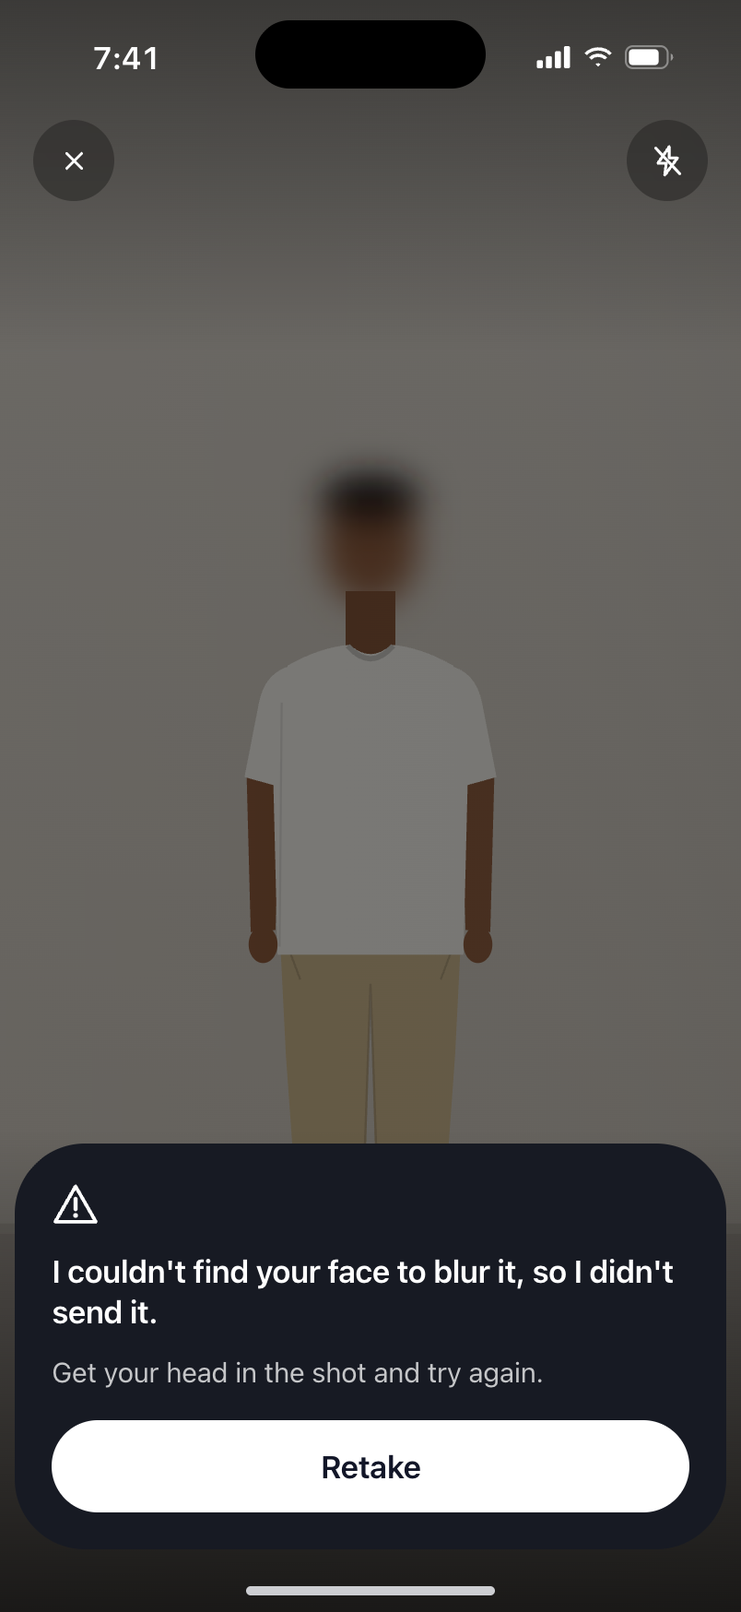
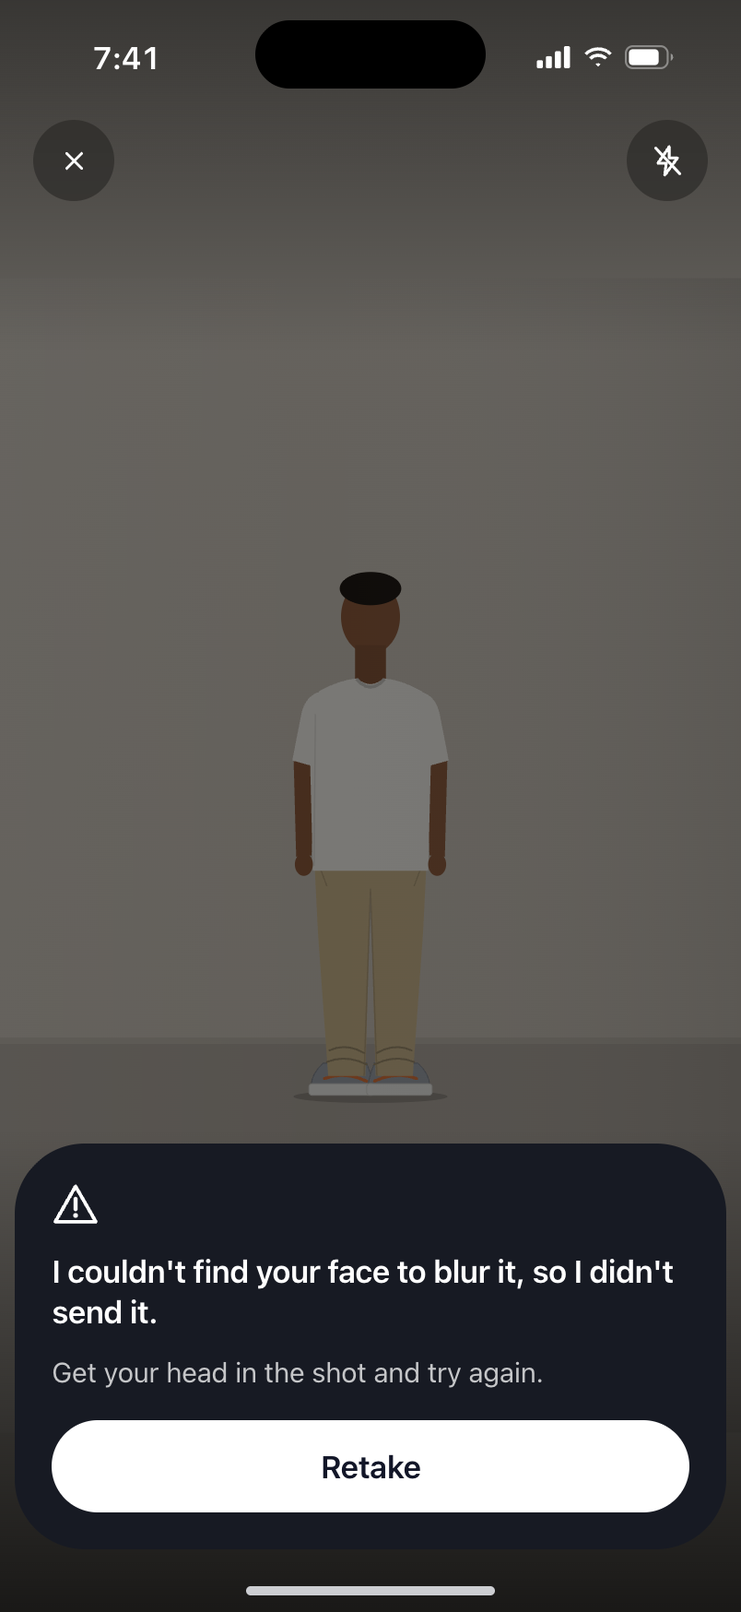
T62: F2.2 design approved by the founder (round 3, critic matches); plan.md and log #405–406

Changed region(s): [[0.3109, 0.278, 0.6841, 0.6178], [0.4042, 0.6487, 0.5908, 0.7105]]

diff --git a/tasks/T62/design.html b/tasks/T62/design.html
@@ -482,7 +482,7 @@ h1.board-title em{font-style:normal;font-stretch:72%;font-weight:500;color:var(-
         <div class="screen">
           <div class="content">
             <div class="nav"><div class="t">Stylist<small class="t62-sub">1 free check today</small></div></div>
-            <div class="thread" style="padding-top:12px">
+            <div class="thread end" style="padding-bottom:146px">
               <div>
                 <div class="t62-who">Kit</div>
                 <div class="t62-kit">I'm Kit, your stylist. Quick note: I'm an AI. I read clothes, never faces, and I can get things wrong. Tap "Not quite right?" when I do.</div>
@@ -493,7 +493,7 @@ h1.board-title em{font-style:normal;font-stretch:72%;font-weight:500;color:var(-
           <div class="t62-acc"><span class="cam"><svg class="ic s"><use href="#i-camera"/></svg></span><span class="field">Ask Kit…</span><span class="mic"><svg class="ic s" viewBox="0 0 24 24"><use href="#t62-mic"/></svg></span></div>
         </div>
       </div>
-      <figcaption><b>Largest text · the toast <small>PHONE 5</small></b><span>Phone 3 at AX5 (the toast's text 49 pt; the header and the bar capped at 2x). The toast grows upward over the thread and every word sits on its fill: at accessibility sizes it takes the 24 pt corner of the stacked toast instead of the capsule, even with no Undo. Kit's message and the bar are today's AX5 layout, unchanged.</span></figcaption>
+      <figcaption><b>Largest text · the toast <small>PHONE 5</small></b><span>Phone 3 at AX5 (the toast's text 49 pt; the header and the bar capped at 2x). The toast grows upward over the thread and every word sits on its fill: at accessibility sizes it takes the 24 pt corner of the stacked toast instead of the capsule, even with no Undo. The thread sits at its end, as Stylist scrolls it (Kit's long message ends just above the bar, mostly under the toast). Kit's message and the bar are today's AX5 layout, unchanged.</span></figcaption>
     </figure>
 
 
@@ -913,5 +913,15 @@ document.querySelectorAll(".phone.fixed .status").forEach(function(st){st.style.
 </script>
 <script>
 // T62: the drawn figures stand far from the phone: zoom the viewBox out so his whole figure, head included, sits inside the frame.
-document.querySelectorAll('[data-zoom="far"] svg').forEach(function(g){g.setAttribute('viewBox','-80 -300 360 780');g.setAttribute('preserveAspectRatio','xMidYMid slice')});
+document.querySelectorAll('[data-zoom="far"] svg').forEach(function(g){
+  // About a third of the screen tall, feet just above the panel: viewBox 578 x 1257 around the 417-unit figure.
+  g.setAttribute('viewBox','-189 -517 578 1257');g.setAttribute('preserveAspectRatio','xMidYMid slice');
+  // The room runs past the zoomed-out view: stretch the wall up and the floor down.
+  var r=g.querySelectorAll('rect');
+  if(r[0]){r[0].setAttribute('x','-2000');r[0].setAttribute('y','-2000');r[0].setAttribute('width','4000');r[0].setAttribute('height','2600')}
+  if(r[1]){r[1].setAttribute('x','-2000');r[1].setAttribute('width','4000');r[1].setAttribute('height','2000')}
+  if(r[2]){r[2].setAttribute('x','-2000');r[2].setAttribute('width','4000')}
+  // A plain, featureless head in the skin and hair tones: no blur (the frozen photo is shown as is).
+  g.querySelectorAll('g[filter]').forEach(function(h){h.removeAttribute('filter')});
+});
 </script>

diff --git a/tasks/T62/DESIGN.md b/tasks/T62/DESIGN.md
@@ -1,6 +1,6 @@
 # T62 · Design: Head not found (what he sees when nothing is sent)
 
-<!-- The coordinator adds the approval line here only after the founder's yes in chat. -->
+**Approved by the founder:** 2026-11-09 in chat (scope: F2.2 only; F2.3 and F3.3 are designed when T62 runs)
 
 **From:** `plan.md` → T62 · **Spec:** `specs.md` → F2.2, and "Failure and edge cases" → the "Head not found" row · **Frames:** `tasks/T62/design.html` (open with `preview_start` name `mockups`, then `http://127.0.0.1:8095/tasks/T62/design.html`) · **PNGs:** `tasks/T62/design/`
 
@@ -13,14 +13,14 @@ When the phone can't find his head to blur it, nothing leaves the phone, and Kit
 
 ## Where it lives
 - **Mainly the camera's after-shot panel** (02 S3, `RetakePanel`), inside the camera cover. The camera is always dark. The panel sits over his frozen photo. **How he gets there:** the shutter (Propped 3-2-1, or Mirror's shutter or volume button), or a pick from the library button. Next, the "Checking the photo…" pill shows while the quick check runs on the phone. If that check can't find his head (`fitIssue` → `cantFrame`), the panel slides up. That happens when his whole figure, top included, is inside the photo, but Vision finds no face, no head points and no two shoulders to place the blur on: he's small or far from the phone, turned away with his shoulders hidden, or too dim to read. A head cut off at the photo's top edge is a different case: its top is hidden down to just above his shoulders and the photo is sent (DECISIONS-LOG #304, `KittedPrep.swift` `topEdgeBand`), so it never shows this panel. **How he leaves:** Retake (back to the live camera), Choose another (the photo picker, for a library photo), or the X (closes the camera). No way out sends anything. Retake and Choose another delete the temporary photo (`discard()`); Close only closes the camera (`router.back()`), as today. The cover has no swipe-down.
-- **Rarely, a toast on Stylist** (02 G2, `ToastHost`). This happens when the quick check passed, or couldn't measure, but the full photo prep that runs after the cover closes still can't find his head (`photoProblem` / `couldNotFrame`). No photo bubble or card is posted. The thread shows what it showed before.
+- **Rarely, a toast on Stylist** (02 G2, `ToastHost`): a short message, not a thread card (founder, Nov 9). The camera panel is "the card" that F2.2 means, since that's where he almost always sees it. This happens when the quick check passed, or couldn't measure, but the full photo prep that runs after the cover closes still can't find his head (`photoProblem` / `couldNotFrame`). No photo bubble or card is posted. The thread shows what it showed before.
 - Around it: the camera's top bar (Close, and the flash toggle in Propped or the timer in Mirror) stays visible above the panel. The mode switch, library button, shutter and flip sit under the panel and are covered by it. On Stylist: the header, the thread, the "Ask Kit…" bar and the tab bar.
 
 ## States
 In the order he meets them. Before any of them, the existing "Checking the photo…" pill shows in the camera's top bar. It is unchanged and not drawn.
 
 ### Head not found · a photo he took · when: the quick check after the shutter finds his figure but no face, head points or shoulders (far, turned away or dim) · phone 1 · `design/01-light.png`, `design/01-dark.png`
-The frozen photo in the frames is a drawn, faceless figure standing in for his photo: whole figure inside the frame, top included, far from the phone in a dim room. On his phone it is his own photo, shown only to him; nothing of it leaves the phone. *Not this panel:* a photo with his head cut off at the top edge is hidden and sent (#304).
+The frozen photo in the frames is a drawn figure standing in for his photo. He's about a third of the screen tall, far from the phone in a dim room, with his whole figure inside the frame, top included. His head is a plain, featureless shape in skin and hair tones, with no blur: the frozen photo is shown as is (`reviewUri`), and nothing on it was blurred. On his phone it is his own photo, shown only to him, and nothing of it leaves the phone. *Not this panel:* a photo with his head cut off at the top edge is hidden and sent (#304).
 
 Top to bottom, in VoiceOver's reading order:
 - Close · `IconButton` variant glass, diameter 44, glyph `close` · no visible words · color `fixed.white` on the glass · top bar at safe-area top + 3, side inset 18 · VoiceOver: "Close camera" (`en.ts` `cam.a11y.close`) · tap: closes the camera (`router.back()`, as today). Nothing is sent.
@@ -30,10 +30,11 @@ Top to bottom, in VoiceOver's reading order:
   - Title · `KText` variant `headline` (17/22, 600) · `fixed.white` · "I couldn't find your face to blur it, so I didn't send it." (source: spec, the first sentence of the "Head not found" line) · with the body, one VoiceOver element (see below).
   - Body · `KText` variant `subheadline` (15/20) · `fixed.textDim` (white 75%) · "Get your head in the shot and try again." (source: spec, the line's second sentence).
   - **Title and body are one VoiceOver element** with the header trait, label "I couldn't find your face to blur it, so I didn't send it. Get your head in the shot and try again." (title, a space, body).
-  - **No** "This one doesn't count." under it: the line already says "I didn't send it" (open question 1). **No** "Use anyway": a photo whose face can't be hidden is never sent (ruling 10, `allowUse: false`).
+  - **No** "This one doesn't count." under it (founder, Nov 9): the line already says "I didn't send it". **No** "Use anyway": a photo whose face can't be hidden is never sent (ruling 10, `allowUse: false`).
   - Retake · `PanelButton` (inside `RetakePanel`), min height 50 (`size.buttonLarge`), radius 25, fill `fixed.white`, text `fixed.indigo`, variant `headline`, `CONTROL_TEXT_MAX_SCALE` · "Retake" (`en.ts` `cam.retake.retake`) · margin top 4 (`space.xs`), full width · VoiceOver: "Retake", button · tap: deletes the temporary photo, closes the panel, back to the live camera (`discard()`). Nothing is sent or counted. VoiceOver focus goes back to the shutter ("Take photo").
 - **Where VoiceOver focus goes.** When the panel appears, focus moves to the panel's text element (title + body, header trait), so VoiceOver reads both sentences once. There is no separate announcement, so the line isn't read twice and isn't cut off by a focus jump. On Retake, focus goes back to the shutter. On Choose another (phone 2), the photo picker takes focus. On Close, focus is wherever the screen under the camera puts it, as today. *Change from today:* `RetakePanel` calls `announceForAccessibility(title)` and doesn't move focus. With VoiceOver on, focus is still on the shutter or library button he double-tapped, which this design hides (next point).
 - **While the panel shows, the controls it covers** (mode switch, library button, shutter, flip) **are hidden from VoiceOver**, so swiping from the panel's text goes on to Retake, and back to the flash toggle and Close. *Change from today:* they stay in the tree under the panel.
+- **Spoken in Propped (founder, Nov 9).** When the panel appears after a shutter photo in Propped mode, Kit says the line out loud once, title then body ("I couldn't find your face to blur it, so I didn't send it. Get your head in the shot and try again."). It uses the tips' voice (`Speech.speak`, rate 1.0), and the photo is never read aloud. It's not spoken in Mirror mode or for a library photo (he's holding the phone), and not while VoiceOver is on, because VoiceOver already reads the panel when focus moves and two voices would talk over each other. Retake, Close and Choose another stop it (`Speech.stop()`). *Change from today:* the panel is silent.
 - **Motion and haptics:** the existing ones, both meaningful. A warning haptic (`notificationAsync(Warning)`) once, when the panel appears. The panel slides up (`FadeInDown` 220 ms). With Reduce Motion it fades in (150 ms), with no slide. On Retake it slides down (160 ms), or fades out (120 ms) with Reduce Motion.
 - **Dark:** none. The camera uses the fixed dark set in both appearances, so the light and dark PNGs are the same.
 - **Largest text:** phone 4. The title wraps to 4 lines at 53 pt and the body to 3 lines at 49 pt. The button's text is capped at 2× (34 pt). The panel grows upward from the bottom and every word shows. Its cap is the camera's top bar: top ≥ safe-area top + 3 + 44 + 8. So Close stays reachable, and the words would scroll inside the panel above a pinned Retake if they ever needed more room. With these words at AX5 the panel is about 600 pt tall against about 720 pt of room, so nothing scrolls. *Change from today:* `RetakePanel` has no height cap.
@@ -41,6 +42,7 @@ Top to bottom, in VoiceOver's reading order:
 ### Head not found · a photo from his library · when: the same check, on a photo he picked with the library button · phone 2 · `design/02-light.png`, `design/02-dark.png`
 Same as phone 1, except the button:
 - Choose another · `PanelButton` with the `photo` glyph (small, `fixed.indigo`), gap 8 · "Choose another" (`en.ts` `cam.retake.chooseAnother`) · VoiceOver: "Choose another", button · tap: deletes the temporary photo, closes the panel and opens the photo picker (`discard()` then `pickFromLibrary()`), unchanged. The picker takes VoiceOver focus.
+- **Spoken:** no. A library pick means he's holding the phone.
 - **Motion and haptics, Dark:** as phone 1.
 - **Largest text:** as phone 4. "Choose another" fits on one line at 34 pt beside its glyph. If it ever didn't, it wraps (`flexShrink: 1`) and is never cut.
 
@@ -59,7 +61,7 @@ Top to bottom, in VoiceOver's reading order. Everything but the toast is today's
 The same elements, words and order as phone 1, at AX5 (headline 53/64, subheadline 49/59, the button's text 34/44 under `CONTROL_TEXT_MAX_SCALE` 2). Its reflow is described under phone 1.
 
 ### Largest text · phone 3 at AX5 · phone 5 · `design/05-light.png`, `design/05-dark.png`
-The same elements, words and order as phone 3, at AX5: the toast's `subheadline` 49/59 with radius 24; Kit's message `chatText` 53/64 (it runs under the toast and the bar, as the thread does today); the header ("Stylist" 34, "1 free check today" 24) and the "Ask Kit…" bar (34) capped at 2× (`CONTROL_TEXT_MAX_SCALE`); the tab bar as the system draws it. Its reflow is described under phone 3.
+The same elements, words and order as phone 3, at AX5: the toast's `subheadline` 49/59 with radius 24; Kit's message `chatText` 53/64 (the thread sits at its end, as `StylistScreen` scrolls it: the message's last lines end just above the bar, mostly under the toast, with "Kit" and its first lines scrolled off the top); the header ("Stylist" 34, "1 free check today" 24) and the "Ask Kit…" bar (34) capped at 2× (`CONTROL_TEXT_MAX_SCALE`); the tab bar as the system draws it. Its reflow is described under phone 3.
 
 ### States that don't apply
 - **First time:** the same panel. Consent is already agreed before the camera opens, and his first-ever check behaves the same.
@@ -85,20 +87,22 @@ Every string he reads in this task.
 ## New parts
 None. Changes to existing parts, used by these states:
 - `RetakePanel`: the title and body become one VoiceOver element with the header trait, and VoiceOver focus moves to it when the panel appears. This replaces `announceForAccessibility(title)`, so the line is read once, in full. It also gets a height cap at the camera's top bar, with the words scrolling inside above the pinned buttons. The other retake reasons get both changes for free, and they are harmless there.
-- `CameraScreen`: while the panel shows, the controls under it are hidden from VoiceOver (`accessibilityElementsHidden` / `importantForAccessibility="no-hide-descendants"` on the bottom controls). On Retake, VoiceOver focus goes back to the shutter.
+- `CameraScreen`: while the panel shows, the controls under it are hidden from VoiceOver (`accessibilityElementsHidden` / `importantForAccessibility="no-hide-descendants"` on the bottom controls). On Retake, VoiceOver focus goes back to the shutter. It also speaks this panel's line once in Propped mode after a shutter photo, with VoiceOver off (founder, Nov 9).
+- `ScanCameraScreen`: it shares `RetakePanel`, so the focus move reaches its panels too. While a panel shows there, the controls under it are hidden from VoiceOver the same way, so swiping from the panel's text never reaches a covered control. The scan's words and buttons are unchanged.
 - `ToastHost`: at accessibility text sizes every toast uses radius 24 (the stacked toast's), with or without Undo, so a tall toast keeps all its text on its fill. Today only a toast with Undo does.
 
 ## Checked by the designer
 - **HIG:** checked against Accessibility (VoiceOver focus moves to the new content and back, VoiceOver order, Dynamic Type to AX5, Reduce Motion: pass with the changes above), Feedback (one warning haptic and a plain statement of what happened and what to do: pass) and Modality (the camera cover keeps a visible Close at every text size: pass). Toasts aren't a native iOS pattern, but they're the app's existing G2 pattern for "nothing happened" (Jakob's Law over novelty).
 - **§C14:** tab bar for top-level navigation only: n/a (camera cover) / unchanged (phone 3) · never a tab as an action: pass · settings behind a gear: n/a · 44 pt targets: pass (Close 44, Retake and Choose another 50 tall at full width) · 4.5:1 text: pass. Title white on #171A23 is about 17:1. Body white 75% on #171A23 is 10.17:1. Retake #121628 on white is 17.9:1. The toast's `ink` on `surface` is about 17:1 (light), and on `surface2` about 13:1 (dark) · Dynamic Type at the largest sizes: pass (phones 4 and 5) · feedback within ~0.1 s: pass (the "Checking the photo…" pill at once, then the haptic with the panel) · a clear X on every camera: pass · familiar patterns: pass (the same panel as every other retake reason) · progressive disclosure, notifications, accounts: n/a · privacy in plain words: pass. The line says what wasn't sent and why.
 - **Design system:** only 03 / `tokens.ts` tokens and existing components: `RetakePanel`, `PanelButton`, `IconButton`, `Icon`, `KText`, `ToastHost`, `StylistBar`, `StylistMessage`, NativeTabs. Fixed dark set on the camera (03 §2.3, §9). No new colors or type roles.
-- **Hard lines:** no face or body. The camera frames use a drawn, faceless figure in place of his photo (no face drawn); phone 3 and 5 show no photo (03 §8). No emoji, ranks or streaks. Copper appears only as the active Stylist tab, which 03 §1 allows. The frames' colors come from `tokens.ts` (light and dark), not the old mockup values. No score is shown, so copper marks nothing else. Nothing is said about his body: the words are about the photo ("your head in the shot"), not about him.
+- **Hard lines:** no face or body. The camera frames use a drawn figure in place of his photo, with a plain, featureless head and no face drawn. Phones 3 and 5 show no photo (03 §8). No emoji, ranks or streaks. Copper appears only as the active Stylist tab, which 03 §1 allows. No score is shown, so copper marks nothing else. Nothing is said about his body: the words are about the photo ("your head in the shot"), not about him. The frames' colors come from `tokens.ts` (light and dark), not the old mockup values.
 - **Not checked:** the web preview (`kitted-web`) wasn't opened. The Mac had about 100 MB of memory free, so I didn't start Metro. Today's chrome is taken from the code (`CameraScreen.tsx`, `RetakePanel.tsx`, `ToastHost.tsx`, `StylistBar.tsx`, `HeaderTitle.tsx`). The critic or verifier can compare against demo screen 45 (`/camera?review=noPerson`, the sibling reason) and `/camera?review=cantFrame` (`simIssue` already accepts it). The library variant (phone 2) has no demo route: in the Simulator the review source is always the camera.
 
 ## Open questions for the founder
-1. **Keep "This one doesn't count." under the line, like the other retake panels?** · recommended: **drop it here.** "I didn't send it" already says nothing happened, and a third sentence makes the panel 4 lines at normal size and much taller at large text. · other: keep it as the body's second sentence ("Get your head in the shot and try again. This one doesn't count."), which matches the sibling panels and spells out that his free check is safe.
-2. **Should Kit say the line out loud in Propped mode?** · recommended: **yes, once, in the same voice as the camera tips.** In Propped he's 2–3 m from a phone propped against something, and 17 pt words are hard to read from there. The camera already speaks its tips in Propped. · other: leave it silent (today). Either way it's new behaviour beyond F2.2, so it needs your yes.
-3. **The rare after-the-camera case: a toast, or a card in the thread?** The spec says "the card says why". · recommended: **the toast (phone 3), with the camera panel counted as "the card"**, since that's where he almost always sees it. Nothing was posted, so there's no photo bubble to hang a card on, and a card would leave a permanent "nothing happened" entry in his chat. · other: post a "Not sent" card with Retake (like the unused 02 S19e). It stays readable after 5 s, but it needs a photo bubble for a check that never ran.
+None open. All three were answered on Nov 9 in chat and are written into the design above:
+- "This one doesn't count." is left off: "Leave it off (Recommended)".
+- The line is spoken in Propped: "Yes, say it (Recommended)".
+- The after-camera case is a toast: "Short message (Recommended)". It stays on screen 5 s (`TOAST_MS`). The critic's 8 s suggestion is still only a suggestion.
 
 ## Out of scope
 - **F2.3** ("Taking longer…" at 9 s, giving up at 14 s with a retry, a failed check never uses a check) and **F3.3** ("I did make the change" and "Scored from what you told me."): the other two-thirds of T62, still to design when T62 runs.
@@ -166,6 +170,24 @@ Re-read this file (Changes, Round 2), all 10 PNGs, and `design.html` (its `:root
 
 **Not verified:** the same two as Round 1 (the gap between the cover closing and the phone 3 toast; Bold Text and Increase Contrast).
 
+### Round 3 · Nov 9 · verdict: matches (no blockers)
+Re-read this file (Changes, Round 3, and the founder's Nov 9 answers written in) and the re-shot phones 1, 2, 4 and 5. Phone 3 is unchanged (same file hashes as Round 2). Nothing was run.
+
+**Round 2's points**
+- Blocker (the blurred head): **fixed.** Phones 1, 2 and 4 draw a plain head with no features: a skin-tone oval under a hair cap, with no blur, no eyes and no mouth. That matches "shown as is (`reviewUri`)" in this file, and the frame no longer contradicts "I couldn't find your face to blur it".
+- Polish (the figure doesn't look far): **fixed.** He's now about a third of the screen tall (head at about 310 pt, feet at about 595 pt), facing the camera in a dim room, with his whole figure in frame.
+- Polish (phone 5's scroll position): **fixed.** The thread sits at its end. Kit's message ends just above the bar, mostly under the toast, and its top is scrolled under the header.
+- Polish (the scan camera): **fixed.** `ScanCameraScreen` now hides its covered controls from VoiceOver too, and it's listed under New parts.
+
+**The founder's decisions (Nov 9), checked only against the rules**
+- No "This one doesn't count.": no rule is affected. The panel stays 2 lines plus the button, and phone 4's reflow is unchanged.
+- The line spoken in Propped: no hard line or HIG rule is broken. It's Kit speaking in the first person, in plain words, with nothing said about his body. It's skipped while VoiceOver is on, so two voices never overlap (HIG Accessibility). It's stopped by every button. Close is already covered by today's unmount `Speech.stop()` in `CameraScreen`. It's listed as a *Change from today* in `CameraScreen`.
+- The toast, at 5 s: no rule is broken. It's the existing G2 pattern, held with VoiceOver on (10 s), and every word is on its fill at AX5 (phone 5).
+
+**New in this round:** nothing broken. The words are unchanged. The panel's contrast (17.38, 10.17, 17.93) and phone 5's toast (17.93 light, 13.20 dark, radius 24) are unchanged. The light and dark camera PNGs are still byte-identical. No emoji, ranks or streaks, and copper appears only on the active tab.
+
+**Still open (not blockers):** the Round 1 suggestions the founder didn't take up (rewording the second sentence; no flash toggle over a library photo), and the two items not verified (the gap before the phone 3 toast on a device; Bold Text and Increase Contrast).
+
 ## Changes
 - **Round 2** · from the critic, Round 1 · what changed:
   - Blocker 1: `design.html` now carries the `tokens.ts` light and dark block (from `design-shell.sh`) before the board, so `ink3`, `primary`, `me` and `accentSoft` match the app (ink3 #646A7A light, #9096A5 dark). Re-shot phones 3 and 5 (and every phone, for the same tokens).
@@ -174,3 +196,9 @@ Re-read this file (Changes, Round 2), all 10 PNGs, and `design.html` (its `:root
   - Blocker 4: phones 1, 2 and 4 now show his whole figure inside the frame, far from the phone in a dim room, with no face (a drawn figure stands in for his photo). The "when" lines and Where it lives now say what triggers the panel, and that a head cut off at the top edge is hidden and sent (#304), so it never shows this panel. Re-shot `01`, `02` and `04`.
   - Polish: dropped "deletes the temporary photo" from Close. Close is `router.back()`, as today. Fixed the body contrast to 10.17:1.
   - Not changed: the critic's suggestions and the three open questions are left for the founder.
+- **Round 3** · from the critic, Round 2, and the founder (Nov 9, in chat: "Leave it off (Recommended)", "Yes, say it (Recommended)", "Short message (Recommended)") · what changed:
+  - Blocker: the drawn figure's head on phones 1, 2 and 4 is now a plain, featureless shape in skin and hair tones, with no blur. Re-shot `01`, `02` and `04`.
+  - Polish: the figure is drawn smaller, about a third of the screen tall (head about 310 pt from the top, feet about 600 pt), far from the phone in a dim room.
+  - Polish: phone 5's thread now sits at its end, as `StylistScreen` scrolls it. Re-shot `05`.
+  - Polish: `ScanCameraScreen` hides its covered controls from VoiceOver too (New parts).
+  - The three answers are now in the design, each marked "(founder, Nov 9)": no "This one doesn't count."; the line is spoken in Propped (after a shutter photo, VoiceOver off, stopped by any button); the toast stays. Open questions now lists none. The toast stays at 5 s.

diff --git a/handoff/DECISIONS-LOG.md b/handoff/DECISIONS-LOG.md
@@ -2820,3 +2820,22 @@ Contradictions settled and decisions changed during the build. Newest last.
     - **The build:** `eas build --platform ios --profile production --auto-submit`, run in the founder's terminal (his Apple login and 2FA). EAS made the distribution certificate and profile and stores them; `appVersionSource: remote` started the build number at 1. Version 0.1.0, build 1, EAS build `1e8af560`, uploaded to App Store Connect. Apple processed it within minutes ("Ready to Submit" for outside testers, expires in 90 days), and the Kitted team group shows it installed on the founder's iPhone 16 Plus (iOS 26.6.2).
     - **Lesson:** a worktree has no `app/.env*` (git-ignored), so `guard:release` there needs the main checkout's files linked in for the run. EAS doesn't need them; it reads its own environment variables.
     - **Lesson:** inviting testers doesn't cost a build. One build serves every tester and group until it expires (90 days); a new build is needed only when the app changes.
+
+## Nov 8–9 · A design stage for /build-task: a designer and a critic
+
+405. **The founder (Nov 8): the workflow has no UI step; he wants "a designer and a critic" next to the spec writer, test writer, builder and verifier, now, before the beta's UI tasks are built.** He picked the shape and the CLAUDE.md rule in chat (Nov 8).
+    - **The shape:** step D in `/build-task`, for a task that changes a screen and isn't planned yet. The `ui-designer` draws every state as phone frames in the mockup's own style (`tasks/<ID>/design.html`, PNGs in `design/`) and writes `DESIGN.md`. The `ui-critic` checks them against the HIG, §C14 and the design system (at most 2 rounds), then the founder approves the look. That approval also approves any NEW words. After the build, step 4b: the critic screenshots every state on the Simulator and compares it with the approved frames.
+    - **Why two roles and no more:** each agent adds time (about 30–45 min per screen task) and a hand-off where detail drops. A copywriter adds nothing, because the words are the founder's. Accessibility sits inside the critic.
+    - **The critic blocks only on rules:** a difference from the approved design, the HIG, §C14, 03 or a hard line. Its taste goes to the founder as optional suggestions, so the loop can't run on opinion. A blocker in the approved design itself (labelled "design") goes to the founder, and only his yes changes a locked inventory word.
+    - **Safe for runs already underway:** the existing four agents only gained "if an approved DESIGN.md exists, use it" (the planner copies the inventory from it, the implementer builds to it). The test-lock hook also guards `DESIGN.md`, `design.html` and `design/`. A task planned before this carries on unchanged.
+    - **Tools:** `tools/mockshots/design-shell.sh <ID>` starts a design page from the mockup's CSS, icons and frame script, with `tokens.ts` colors laid over the mockup's older ones. `design-shot.sh <ID> <n> <light|dark>` shoots one phone at 2x.
+    - **Lesson:** an agent type is loaded when a session starts, so a session older than `ui-designer.md` or `ui-critic.md` can't call them by name. The skill now says to run `general-purpose` with the agent file as its instructions.
+    - **Lesson:** the mockup's CSS still carries the pre-contrast-fix greys (`--ink-3` #848A99 / #6E7484, now `inkFaint`). The critic caught 3.14:1 text in the first dry-run frames. Designs must take colors from `tokens.ts`, which the shell now does.
+
+406. **The dry run: T62's head-not-found case (F2.2), designed and approved (founder, Nov 9).** No app code changed.
+    - **The designer:** 4 phones, then 5: the camera panel with the spec's line and Retake (Choose another for a library photo), a toast for the rare case after the camera closed, and both at AX5.
+    - **The critic, round 1:** 4 blockers: stale greys under 4.5:1; the toast breaking at AX5 (radius 999 clamps and the text leaves its fill); no VoiceOver focus plan; a frozen photo showing a case the engine actually sends (#304, a head cut at the top edge is hidden and sent).
+    - **The critic, round 2:** 1 blocker: the drawn head was blurred under "I couldn't find your face to blur it".
+    - **The founder's answers:** no "This one doesn't count." under this panel; speak the line in Propped mode; a short toast, not a thread card, for the after-camera case. The toast stays at 5 s; 8 s is an open suggestion.
+    - **Raised for T62's planner:** the photo prep reports one `couldNotFrame` status for several causes (undecodable photo, a cover over someone else, "Which one is you?" matching nobody, a lost blurred copy). Only the head case gets the spec's line; the rest keep "Couldn't frame this one. Try again."
+    - **Raised for the founder (spec words, not changed):** "Get your head in the shot" misses the usual real causes (turned away, far, dim); "Face the camera…" would fit more. The older docs (02 S3 and S19e, 03 §8) still carry the old copy; the spec wins.

diff --git a/plan.md b/plan.md
@@ -128,7 +128,7 @@ Lane files: `app/packages/kitted-core`, `extraction-test/`, `app/src/features/{f
 
 - [ ] **T60** · Write the "not rated" spec with you: womenswear and the card's words · *done: your yes · files: `specs/not-rated.md`*
 - [ ] **T61** · Dresses, skirts and heels read as "not rated", in the Python engine first, then the app's scoring (parity tests green) · *after T60 · checks: F2.5 · files: `extraction-test/`, core*
-- [ ] **T62** · The card's words to the spec: the head-not-found line, "Taking longer…", "I did make the change" · *spec: specs.md · checks: F2.2, F2.3, F3.3 · files: camera/, fitcheck/, en.ts*
+- [ ] **T62** · The card's words to the spec: the head-not-found line, "Taking longer…", "I did make the change" · *spec: specs.md · checks: F2.2, F2.3, F3.3 · files: camera/, fitcheck/, en.ts* · **F2.2's design approved Nov 9** (`tasks/T62/DESIGN.md`, the design-stage dry run); F2.3 and F3.3 still get designed when it runs
 - [ ] **T63** · A test proving every card with a fix has a free fix · *spec: specs.md · checks: F2.7 · files: core tests*
 - [ ] **T64** · The morning card, Kit's ideas and Swap pick outfits with the fit check's scoring, not the old rubric: rebuild #48 on today's main, keeping the warm-layer and Swap-rotation changes · *after Y3 · spec: specs.md · checks: F6, F6.3 · files: core `ideas.ts`, core tests*
 
@@ -169,12 +169,14 @@ Claude builds with the default until you decide.
 - **Free checks after "Delete all my data":** today that wipe also clears the phone's ID, which would give 7 new free checks. Default: count them with Apple's DeviceCheck, which survives a wipe and a reinstall (T20).
 - **Scans:** their own cap of 30 a day for everyone (assumed in the spec).
 - **Sign-in in the beta build:** today Continue with Google works only on dev builds, and it backs nothing up yet (sync is T41). Default: the beta ships without sign-in; the server counts each phone's guest account. Sign-in and backup come with T40/T41, alongside Apple's, which App Review asks for next to Google's (guideline 4.8).
+- **"Get your head in the shot" (the head-not-found line, spec F2.2):** the designer and critic found it misses the usual causes (turned away, far, dim); "Face the camera…" would fit more. Default: the spec's words until you say otherwise (#406).
 - **Where consent shows:** the spec says the first time he opens the camera; the app has it as setup step 4. Default: the spec; settled in T30.
 
 ---
 
 ## Session log
 The last 15 sessions, newest first.
+- 2026-11-09 · The design stage (founder, Nov 8): `/build-task` step D (a designer draws every state, a critic checks it, you approve) and 4b (the critic checks the built screens against your frames), for screen tasks only; dry run on T62's head-not-found card, approved · #405–406, PR pending
 - 2026-11-08 · T85: console set up (Kitted team, EAS project, upload target), main merged in, then the first build 0.1.0 (1) built, uploaded to TestFlight and installed on your iPhone; check 1,648 tests and guard:release passed · #403–404, PR #71
 - 2026-11-08 · T25: the beta's limits deployed (`api`, `purgeUsage`); a live question from a fresh guest got `x-kitted-tier: beta`, so the live config isn't set to Pro by hand · #402
 - 2026-11-08 · T14 merged (#72): the beta's 3 checks and 20 questions a day, its limit card, Plan row and morning line, no paywall; verified ready in round 2; server not deployed · #400–401
